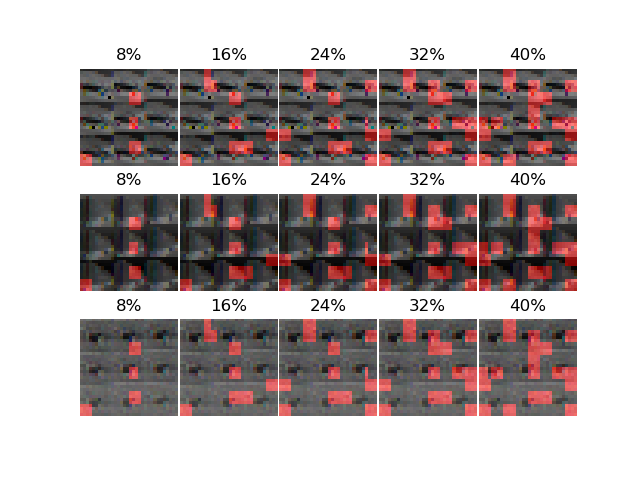
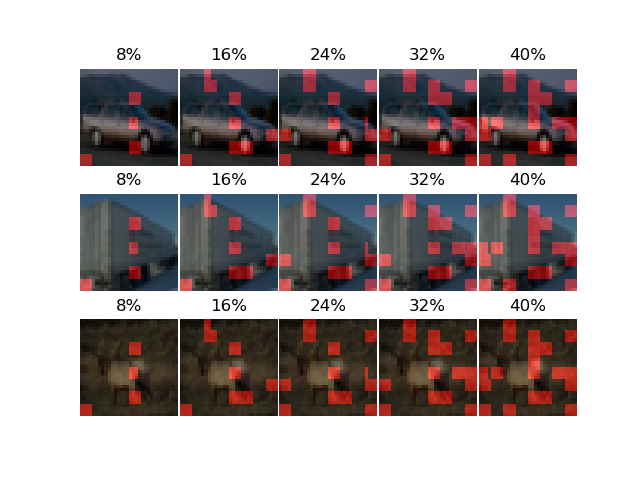
CIFAR-10 analysis

diff --git a/test_cifar.py b/test_cifar.py
@@ -11,21 +11,22 @@ import random
 import pandas as pd
 from MyFunctions import *
 
-
-def show_image_cifar(samples, sorted_ind, save_name):
+def show_image_accuracy_cifar(samples, sorted_ind, save_name, test_accuracy):
     result_path = "./results/"
     image = {}
     percentage = [0.2,0.4,0.6,0.8,1] # [0.2,0.4,0.6,0.8,1] # [0.1,0.2,0.3,0.4,0.5,0.6,0.7,0.8,0.9,1]
     percentage_label = [0.08,0.16,0.24,0.32,.40]
     fig = plt.figure()
-    gs1 = gridspec.GridSpec(len(samples), len(percentage))
-    gs1.update(wspace=0.025, hspace=0.05) # set the spacing between axes.
+    
+    gs1 = gridspec.GridSpec(len(percentage), len(samples))
+    gs1.update(wspace=0.025, hspace=0.025) # set the spacing between axes.
+    no_of_samples = len(samples)
 
     i = 0
     feature_len = len(sorted_ind)
-    for x in samples:
+    for p in percentage:
         idx = 0
-        for p in percentage:
+        for x in samples:
             y = np.zeros((1024))
             temp = int(round(p*feature_len))
             index = sorted_ind[0:temp]
@@ -33,34 +34,29 @@ def show_image_cifar(samples, sorted_ind, save_name):
             y[index] = 1 # Identify the feature positions
             feature = np.reshape(y, (32,32))
             feature = np.transpose(feature)
-            #feature[feature>0] = 1
-
-            sample = np.reshape(x, (32,32,3))
-            #sample = np.transpose(sample)
-            #sample[sample>0] = 1
+            sample = x
             zero = np.zeros(sample.shape)
 
-            dummy_RGB_image = sample
+            dummy_RGB_image = x
             feature_image = zero
             feature_image[:,:,0] = feature
-            #dummy_RGB_image[:,:,1] = sample
-            #dummy_RGB_image[:,:,2] = sample
-            
-            image = Image.fromarray((dummy_RGB_image * 255).astype(np.uint8))
-            f_image = Image.fromarray((feature_image * 255).astype(np.uint8))
+
+            output = (1*dummy_RGB_image + 0.8*feature_image)
             ax = plt.subplot(gs1[i])
+
             ax.set_aspect('equal')
-            # ax = fig.add_subplot(3, len(percentage), i)
-            params = {'interpolation': 'nearest'}
-            imgplot = plt.imshow(image)
-            plt.imshow(f_image, 'viridis', interpolation='nearest', alpha=0.5)
-            ax.set_title(str(int(percentage_label[idx] * 100))+"%")
+            plt.imshow(output)
+            
+            if idx == 0:
+                ax.set_title(str(int(percentage_label[i%(no_of_samples-1)] * 100))+"%", x=-0.5,y=0.3, fontsize=20)
+            if idx == no_of_samples-1:
+                ax.set_title(str(test_accuracy[i%(no_of_samples-1)])+"%", color='blue', x=1.5,y=0.3, fontsize=20)
+                #ax.set_title(, x=10,y=0.3)
+            
             plt.axis('off')
             i = i + 1
             idx = idx + 1
-
-    plt.savefig(result_path +"Sample_image_CIFAR_"+save_name+".png")
-    plt.close()
+    plt.show()
 
 def choose_patched_features(size, rows, cols, patch_rows = 4, patch_cols = 4, img_size=32):
     S_hat = []
@@ -71,10 +67,22 @@ def choose_patched_features(size, rows, cols, patch_rows = 4, patch_cols = 4, im
     return S_hat
 
 # Just to compare what global features SHAP with DeepLift choose
-X_train_ori =  loadmat("./mat_files/CIFAR-10.mat")["train_x"].astype(np.float32)
-x = np.array([X_train_ori[:,4],
-              X_train_ori[:,15],
-              X_train_ori[:,3]])
+X_original =  loadmat("./mat_files/CIFAR-10.mat")["train_x"].astype(np.float32)
+X_rgb = np.reshape(X_original.T, (50000, 3, 32, 32))
+X_rgb = np.swapaxes(X_rgb, 1,3)
+X_rgb = np.swapaxes(X_rgb, 1,2)
+
+x = np.array([X_rgb[4,...]/255,
+              X_rgb[15,...]/255,
+              X_rgb[3,...]/255,
+              X_rgb[3000,...]/255,
+              X_rgb[12321,...]/255,
+              X_rgb[4556,...]/255,
+              X_rgb[7687,...]/255,
+              X_rgb[1231,...]/255,
+              X_rgb[456,...]/255,
+              X_rgb[8687,...]/255
+              ])
 
 rows = [4, 4, 0, 4, 7, 2, 5, 2, 7, 0, 7, 7, 5, 6, 4, 1, 2, 4, 0, 2, 2, 1, 5, 3, 6, 4]
 cols = [2, 6, 7, 4, 5, 1, 6, 0, 7, 5, 1, 4, 2, 4, 1, 4, 7, 3, 4, 2, 6, 5, 7, 7, 6, 0]
@@ -82,5 +90,5 @@ cols = [2, 6, 7, 4, 5, 1, 6, 0, 7, 5, 1, 4, 2, 4, 1, 4, 7, 3, 4, 2, 6, 5, 7, 7, 
 #S_hat = choose_patched_features(49, patch_rows = 4, patch_cols = 4)
 S_hat = choose_patched_features(26, rows, cols, patch_rows = 4, patch_cols = 4)
 
-show_image_cifar(x, S_hat[0:300], "test_nmp_cnn_300_4x4")
-
+test_accuracy = [29.64, 33.99, 40,  41.49, 50.45]
+show_image_accuracy_cifar(x, S_hat[0:300], "test_nmp_cnn_300_4x4", test_accuracy)
